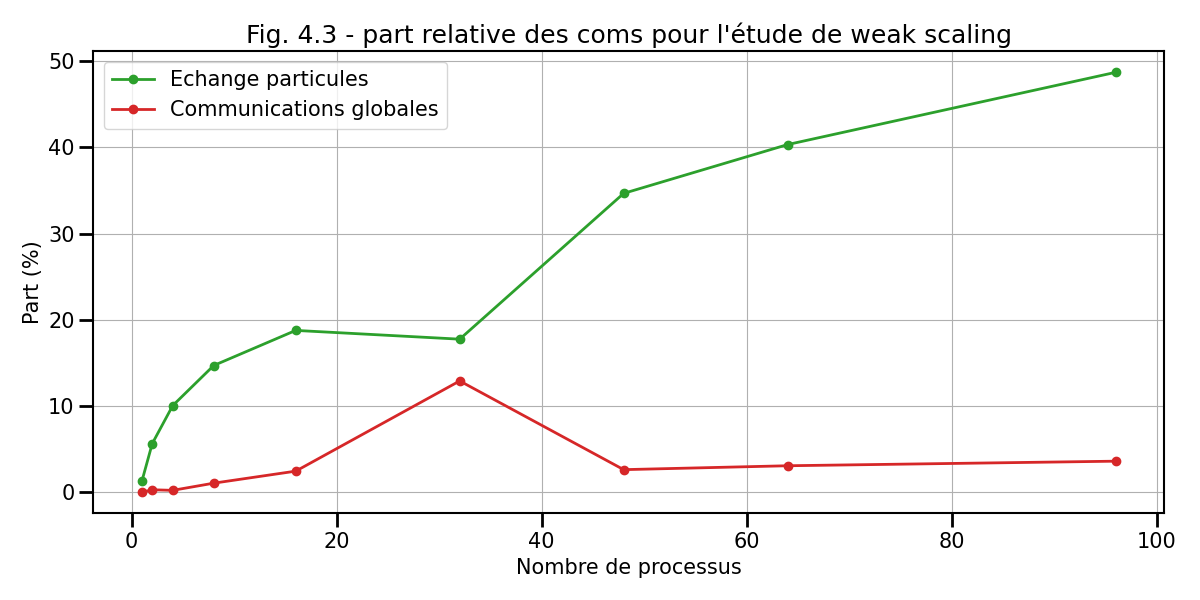
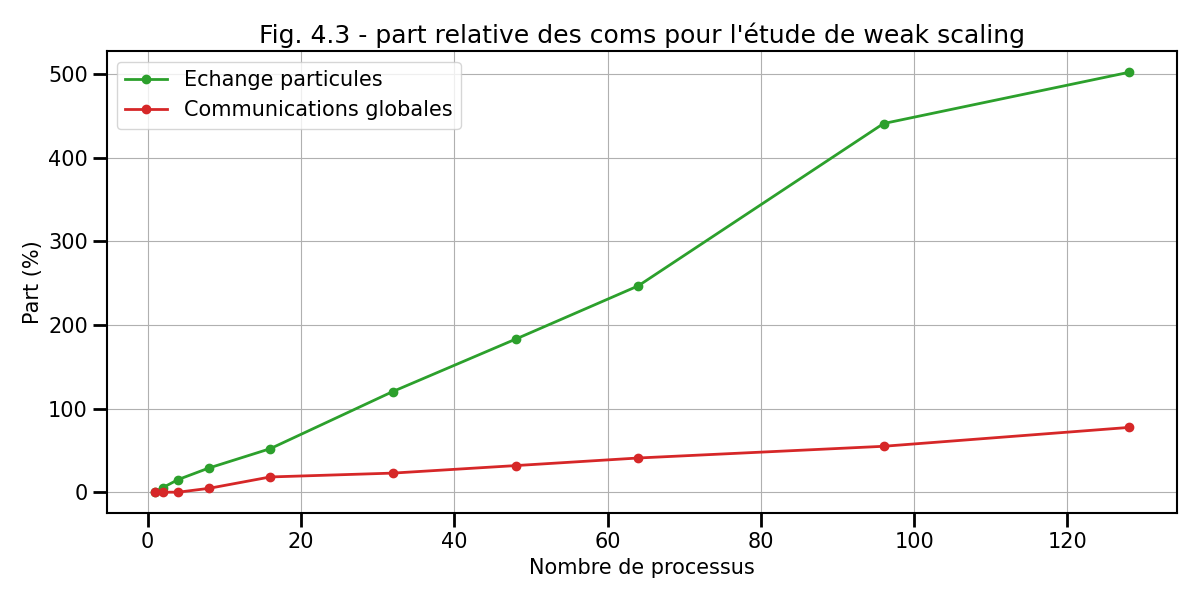
life: strong scaling

diff --git a/tp/life/scalings/strong_scaling_a64fx.py b/tp/life/scalings/strong_scaling_a64fx.py
@@ -15,15 +15,16 @@ from matplotlib.pyplot import *
 times = {}
 
 # Nombre de processus
-times["cores"]       = np.array([4,8,16,32,64])
+times["cores"]       = np.array([1,2,4,8,16,32,48,64,96,128])
 # Temps dans la boucle en temps
-times["total"] = np.array([148.410497,37.865224,10.297101,3.131366,1.035853])
+times["total"] = np.array([1481.007591,817.275929, 483.945553, 323.134755,240.653431,196.507436,178.393044,169.432511,162.187075, 157.878737 ])
 # Temps dans la boucle en temps
-times["calcul"] = np.array([148.410497,37.865224,10.297101,3.131366,1.035853])
+times["calcul"] = np.array([1342.429612,678.976874, 347.362091, 186.846782,104.280626,60.183146,41.867788,32.976004,26.679670,22.462243])
 # Temps pour les collisions
-times["point"] = np.array([144.869179,36.129406,9.030512,2.272468,0.567437])
+times["point"] = np.array([3.521534,70.906168,102.840178, 102.347629,94.118631,110.748023,113.655305,115.124483,117.117469,116.335050])
 # Temps dans le pousseur
-times["global"] = np.array([0.067916,0.034055,0.017134,0.008759,0.004411])
+times["global"] = np.array([0.004365,0.011119, 0.011932,16.900119,33.669451,21.153652,19.821558,19.113659,16.903380,17.950769])
+
 
 # Calcul de l'efficacite pour une scalabilite faible
 times["efficiency"] = times["total"][0] * times["cores"][0] / (times["total"][:] * times["cores"][:])
@@ -62,26 +63,25 @@ rcParams['axes.grid'] = True
 
 fig0 = figure(figsize=(12, 8))
 gs = GridSpec(2, 2)
-ax0 = subplot(gs[0,:])
-ax1 = subplot(gs[1,:])
+ax0 = subplot(gs[:,:])
 
-ax0.plot(times["cores"],times["total"],lw=2,label="Boucle de calcul",marker='o')
+ax0.plot(times["cores"],times["total"],lw=2,label="Total",marker='o')
 ax0.plot(times["cores"],times["calcul"],lw=2,label="Calcul",marker='o')
-ax1.plot(times["cores"],times["point"],lw=2,label="Com. point a point",marker='o')
-ax1.plot(times["cores"],times["global"],lw=2,label="Com. globales",marker='o')
+ax0.plot(times["cores"],times["point"],lw=2,label="Com. point a point",marker='o')
+ax0.plot(times["cores"],times["global"],lw=2,label="Com. globales",marker='o')
 
 ax0.set_xlabel("Nombre de processus")
 ax0.set_ylabel("Temps (s)")
 
-ax1.set_xlabel("Nombre de processus")
-ax1.set_ylabel("Temps (s)")
+# ax1.set_xlabel("Nombre de processus")
+# ax1.set_ylabel("Temps (s)")
 
 ax0.set_title("Fig. 4.4 - Strong scaling MPI")
 
-#ax.set_yscale("log")
+# ax0.set_yscale("log")
 
 ax0.legend(loc="best",ncol=2)
-ax1.legend(loc="best",ncol=2)
+
 
 fig0.tight_layout()
 
@@ -118,8 +118,8 @@ fig2 = figure(figsize=(12, 6))
 gs = GridSpec(2, 2)
 ax = subplot(gs[:,:])
 
-ax.plot(times["cores"],times["calcul"]/times["total"]*100.,lw=2,marker='o',color='C1',label='Collision')
-ax.plot(times["cores"],times["point"]/times["total"]*100.,lw=2,marker='o',color='C2',label='Echange particules')
+ax.plot(times["cores"],times["calcul"]/times["total"]*100.,lw=2,marker='o',color='C1',label='Calcul')
+ax.plot(times["cores"],times["point"]/times["total"]*100.,lw=2,marker='o',color='C2',label='Com point a point')
 ax.plot(times["cores"],times["global"]/times["total"]*100.,lw=2,marker='o',color='C3',label='Communications globales')
 
 ax.set_title("Fig. 4.6 - Strong scaling MPI")

diff --git a/tp/life/scalings/weak_scaling_a64fx.py b/tp/life/scalings/weak_scaling_a64fx.py
@@ -1,4 +1,4 @@
-²# ______________________________________________________________________________
+# ______________________________________________________________________________
 #
 # Script d'aide au trace du temps pour les etudes de scalabilite faible
 # pour le programme MPI
@@ -15,16 +15,15 @@ from matplotlib.pyplot import *
 times = {}
 
 # Nombre de processus
-times["cores"]       = np.array([1, 2, 4, 8,16,32,48,64,96])
+times["cores"]       = np.array([1,2,4,8,16,32,48,64,96,128])
 # Temps dans la boucle en temps
-times["total"] = np.array([7.723384, 8.126372, 8.549324, 9.095991, 9.765752, 11.095566, 12.306443, 13.321309, 15.470952])
+times["total"] = np.array([21.054114, 22.373042, 24.414580, 28.318417, 36.059944, 51.141858, 66.077504, 80.922336, 111.541942,141.087689])
 # Temps dans la boucle en temps
-times["calcul"] = np.array([7.723384, 8.126372, 8.549324, 9.095991, 9.765752, 11.095566, 12.306443, 13.321309, 15.470952])
+times["calcul"] = np.array([20.049472, 20.278478, 20.374131, 20.491379, 20.609092, 20.612347, 20.663061, 20.628556, 20.643920, 20.620366])
 # Temps pour les collisions
-times["point"] = np.array([0.103110, 0.459180, 0.859833, 1.337354, 1.832974, 1.969981, 4.264167, 5.369361, 7.530788])
+times["point"] = np.array([0.082543, 1.125131, 3.090843, 5.926572, 10.721430, 24.811900, 37.798206, 50.876670, 90.971015, 103.496266])
 # Temps dans les echanges de particules
-times["global"] = np.array([0.001656, 0.024779, 0.020225, 0.097196, 0.240307, 1.432899, 0.324243, 0.411199, 0.559528])
-
+times["global"] = np.array([0.000995, 0.004705, 0.005079, 0.945502, 3.756427, 4.706900, 6.571810, 8.435850, 11.330393, 15.965484])
 
 # Calcul de l'efficacite pour une scalabilite faible
 times["efficiency"] = times["total"][0] / times["total"][:]
@@ -113,8 +112,9 @@ fig2 = figure(figsize=(12, 6))
 gs = GridSpec(2, 2)
 ax = subplot(gs[:,:])
 
-ax.plot(times["cores"],times["point"]/times["calcul"]*100.,lw=2,color='C2',label='Echange particules',marker='o')
-ax.plot(times["cores"],times["global"]/times["calcul"]*100.,lw=2,color='C3',label='Communications globales',marker='o')
+ax.plot(times["cores"],times["calcul"]/times["total"]*100.,lw=2,color='C1',label='Calcul',marker='o')
+ax.plot(times["cores"],times["point"]/times["total"]*100.,lw=2,color='C2',label='Echange particules',marker='o')
+ax.plot(times["cores"],times["global"]/times["total"]*100.,lw=2,color='C3',label='Communications globales',marker='o')
 
 ax.set_title("Fig. 4.3 - part relative des coms pour l'étude de weak scaling")
 

diff --git a/tp/life/cpp/sequential/main.cpp b/tp/life/cpp/sequential/main.cpp
@@ -180,10 +180,17 @@ int main( int argc, char *argv[] )
 	std::cout << std::endl;
 	std::cout << "  Rabbits properties: " << std::endl;
 	std::cout << "  - rabbits hunger: " << rabbits_hunger << std::endl;
+	std::cout << "  - Max babies per rabbit: " << max_babies_per_rabbits << std::endl;
+	std::cout << "  - probability to move from a cell to another (migration success): " << rabbit_migration_success << std::endl;
 	std::cout << std::endl;
 	std::cout << "  Fox properties: " << std::endl;
+	std::cout << "  - hunting success: " << hunting_success << std::endl;
 	std::cout << "  - fox sens of smell: " << rabbits_hunger << std::endl;
-
+	std::cout << "  - max number of foxes per cell: " << max_foxes_per_cell << std::endl;
+	std::cout << "  - probability to move from a cell to another (migration success): " << fox_migration_success << std::endl;
+	std::cout << "  - how non-sociable are the foxes (territorial): " << fox_non_sociability << std::endl;
+	std::cout << "  - Maximum number of babier per fox: " << max_babies_per_fox << std::endl;
+	
 	std::cout << std::endl;
 
 	// Initialization __________________________________________________________

diff --git a/tp/life/consignes/4_performance.md b/tp/life/consignes/4_performance.md
@@ -16,20 +16,18 @@ a) Effectuez un test de weak scaling en choisissant les paramètres de votre cho
 b) Affichez la courbe en temps et d'efficacité correspondante en y faisant apparaître le temps dans chaque partie:
 - calcul
 - communications point à point
-- communications globales et réduction
+- communications globales 
 
-Nous allons maintenant étudier une étude réalisée sur quelques nœuds du calculateur Fugaku équippé des processeurs ARM A64FX.
-Chaque domaine MPI a une dimension de 128 x 128 cellules pour chaque espèce.
+Nous allons maintenant étudier une étude réalisée sur quelques nœuds du de la partition ARM du calculateur TGCC équipé des processeurs Fujitsu A64FX.
+Chaque domaine MPI a une dimension de 512 x 512 cellules pour chaque espèce.
 
 <img src="../../../support/materiel/life_mpi_weak_scaling_time.png" height="400">
 <img src="../../../support/materiel/life_mpi_weak_scaling_efficiency.png" height="400">
 <img src="../../../support/materiel/life_mpi_weak_scaling_part.png" height="400">
 
-a) Calculez quel est le coût mémoire théorique d'un domaine MPI en ne considérant que le poids des grilles (et pas toutes les petites variables)
+c) Calculez quel est le coût mémoire théorique d'un domaine MPI en ne considérant que le poids des grilles (et pas toutes les petites variables)
 
-b) Commentez ce weak scaling en vous aidant de toutes les courbes
-
-
+d) Commentez ce *weak scaling* en vous aidant de toutes les courbes
 
 ### 4.2. Strong scaling
 
@@ -38,6 +36,19 @@ Pour rappel, ce type d'étude consiste à regarder comment évolue l'efficacité
 code lorsque l'on augmente le nombre de processus tout en gardant la
 charge globale constante.
 
-<img src="../../../support/materiel/life_mpi_strong_scaling_time.png" height="400">
+a) Effectuez un test de *strong scaling* en choisissant les paramètres de votre choix (taille de grille, nombre de processus MPI...) et en les justifiant.
+
+b) Affichez la courbe en temps et d'efficacité correspondante en y faisant apparaître le temps dans chaque partie:
+- calcul
+- communications point à point
+- communications globales
+
+Nous allons maintenant regarder l'étude de *strong scaling* réalisée sur le calculateur TGCC.
+On utilise un domaine de taille 6144 x 6144 cellules pour chaque espèce.
+
+<img src="../../../support/materiel/life_mpi_strong_scaling_time.png" height="450">
 <img src="../../../support/materiel/life_mpi_strong_scaling_efficiency.png" height="400">
 <img src="../../../support/materiel/life_mpi_strong_scaling_part.png" height="400">
+
+c) Commentez ce *weak scaling* en vous aidant de toutes les courbes
+

diff --git a/tp/life/consignes/3_mpi.md b/tp/life/consignes/3_mpi.md
@@ -173,7 +173,7 @@ a) Effectuez les mêmes actions que pour les lapins
 b) Compilez et exécutez le code pour vérifier que tout fonctionne
 
 **Question 3.8 - timers spécifique:** nous allons rajouter des *timers* afin de calculer le temps passé dans:
-- les communications globales et les phases de réductions
+- les communications globales
 - les communications point à point
 - les calculs.
 
